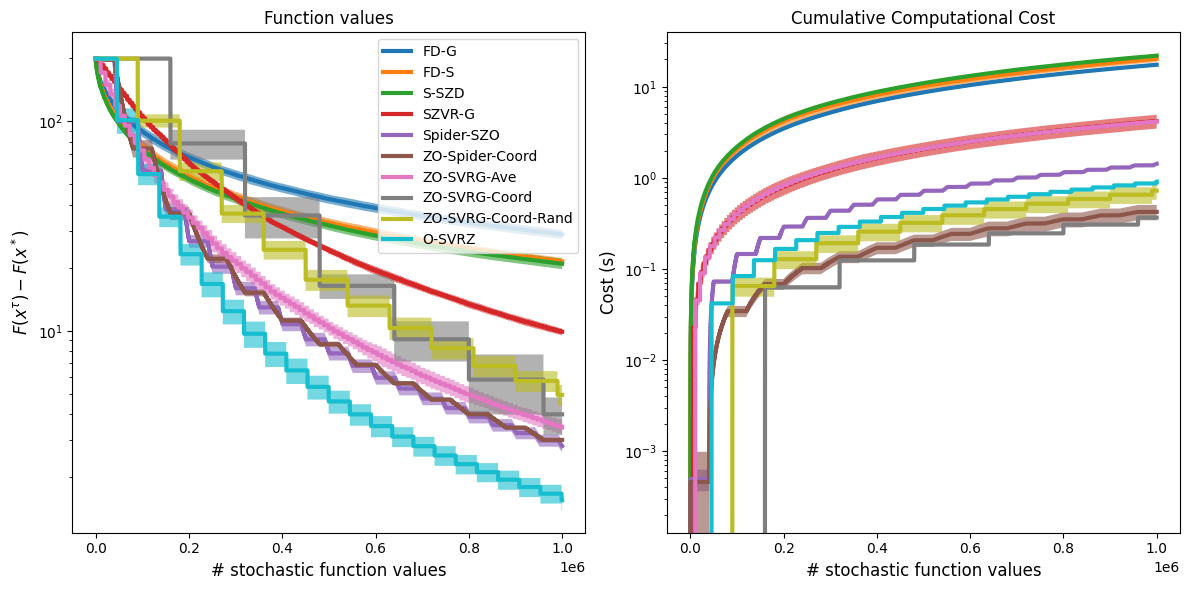
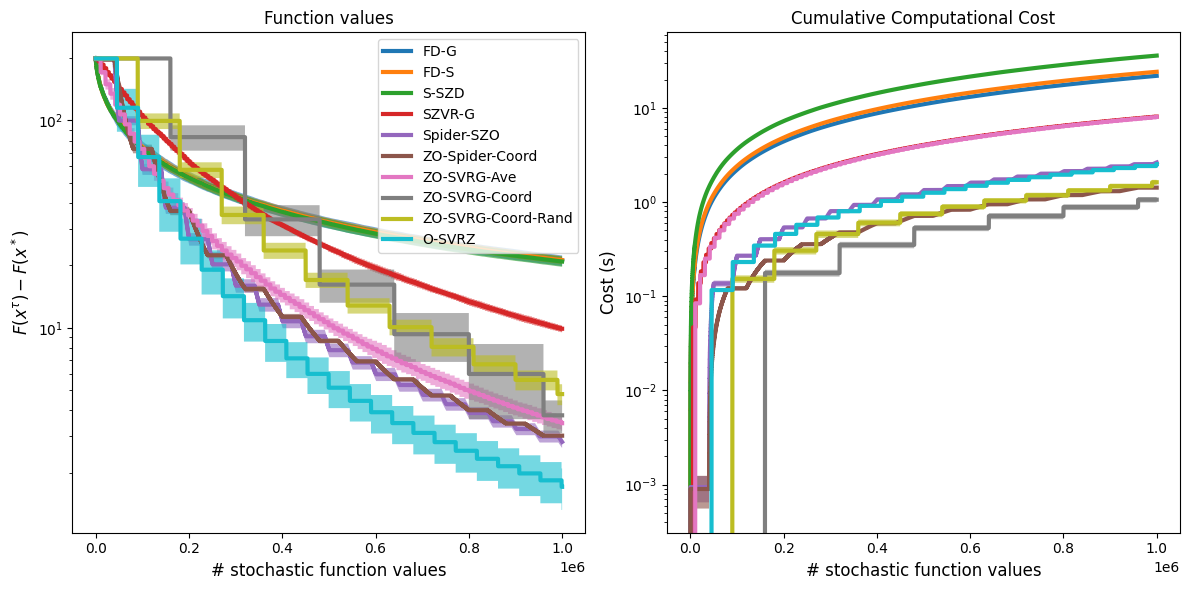
Added changing_params.py experiment and updated least squares comparison

diff --git a/experiments/synthetic/changing_params.py b/experiments/synthetic/changing_params.py
@@ -1,0 +1,122 @@
+import os
+import sys
+import torch
+import numpy as np
+
+
+from svrz import ZOSVRG, SZVR_G, ZOSVRG_CoordRand, SpiderSZO, ZOSpiderCoord, OSVRZ
+from svrz.directions import QRDirections, SphericalDirections, GaussianDirections
+
+from itertools import product
+
+sys.path.append("../")
+
+from datasets import SyntheticDataset
+from targets import LeastSquares
+from concurrent.futures import ProcessPoolExecutor as PPE
+
+
+dtype = torch.float64
+device = 'cpu'
+d = 50
+seed = 12131415
+
+
+x_star = torch.Tensor([0 for i in range(d)], device=device).to(dtype)
+dataset = SyntheticDataset(x_star=x_star, n = d, seed=seed)
+generator = torch.Generator()
+
+
+x0 = torch.ones((1, d), dtype=dtype, device=device)
+
+target = LeastSquares(data=dataset, seed = seed)
+
+budget = 1000000
+out_path = "./results/changing_params"
+
+os.makedirs(out_path, exist_ok=True)
+
+def test_optimizer(name, optimizer, x0, T, m, gamma, h, cost_per_iter = None, reps = 10):
+    values, times = [], []
+    for _ in range(reps):
+        if m is None:
+            result = optimizer.optimize(target, x0 = x0, T = T, gamma = gamma, h = h)
+        else:
+            result = optimizer.optimize(target, x0 = x0, T = T, m = m, gamma = gamma, h = h)
+        values.append(result['f_values'])
+        times.append(result['it_times'])
+    print("-"*44)
+    values = np.array(values).reshape(reps, -1)
+    times = np.array(times).reshape(reps, -1).cumsum(1)
+    ris = {
+        'values' : (values.mean(0), values.std(0)),
+        'times' : (times.mean(0), times.std(0))
+    }
+    if cost_per_iter is None:
+        cost_per_iter = result['l_values']
+            
+    with open(f"{out_path}/{name}.log", 'w') as f:
+        for i in range(len(ris['values'][0])):
+            cost = cost_per_iter[i] if isinstance(cost_per_iter, list) else cost_per_iter
+            f.write(f"{ris['values'][0][i]},{ris['values'][1][i]},{ris['times'][0][i]},{ris['times'][1][i]},{cost}\n")                
+
+    return None 
+
+
+def get_optimizer(name, d, l, m, seed, device, dtype):
+    if name == 'osvrz':
+        return OSVRZ(P = QRDirections(d = d, l = l, seed = seed, device = device, dtype = dtype), batch_size=1, seed=seed), 2 * (l + 1)  * m + d * (d + 1) 
+    elif name == 'szvr_g':
+        return SZVR_G(d= d, l = l, dtype=dtype, device=device, seed=seed),  4 * m + d * (l + 1)
+    elif name == 'zo_svrg_ave':
+        return ZOSVRG(d = d, l=l, dtype=dtype, device=device, estimator='ave', batch_size=1, seed=seed), 2 * (l + 1) * m + d * (l + 1)
+    elif name == 'zo_svrg_coord':
+        return ZOSVRG(d = d, l=l, dtype=dtype, device=device, estimator='coord', batch_size=1, seed=seed), 4 * d * m + 2 * d * d
+    elif name == 'zo_svrg_coord_rand':
+        return ZOSVRG_CoordRand(d = d, l=l, dtype=dtype, device=device, seed=seed), 4 * l  * m + 2 * d * d 
+    elif name == 'spider_szo':
+        return SpiderSZO(d=d, l=l, dtype=dtype, device=device, seed=seed), None
+    elif name == 'zo_spider_coord':
+        return ZOSpiderCoord(d=d, batch_size=1, dtype=dtype, device=device, seed=seed), None
+
+
+h = lambda k : 1e-7#max(1e-5 / sqrt(k + 1), 1e-9)
+reps = 10
+
+#m = 50
+num_directions = [1] + [i for i in range(5, d + 5, 5)]
+gammas = [1e-5, 1e-4, 1e-3, 1e-2, 1e-1, 1.0]
+inner_iters = [5, 15, 25, 50]
+opt_names = ['osvrz','szvr_g','zo_svrg_ave','zo_svrg_coord','zo_svrg_coord_rand','spider_szo', 'zo_spider_coord']
+
+
+def execute_exp(param):
+    name, l, gamma, m = param
+    optimizer, cost_per_iter = get_optimizer(name, d, l, m, seed=seed, device=device, dtype=dtype)
+    T = budget // cost_per_iter if cost_per_iter is not None else None
+    print(f"[--] Executing {name}_{l}_{gamma}_{m}")
+    opt_result = test_optimizer(f"{name}_{l}_{gamma}_{m}", optimizer, x0, T, m, gamma, h, cost_per_iter, reps = reps)
+#    with open(f"{out_path}/test_{name}_{l}_{gamma}_{m}.log", 'w') as f:
+#        f.write("TEST\n")
+    return f"{name}_{d}_{l}_{gamma}_{m}"
+
+max_workers = 12
+num_completed = 0
+
+
+with PPE(max_workers=max_workers) as executor:
+    for result in executor.map(execute_exp, product(opt_names, num_directions, gammas, inner_iters) ):
+        print(f"[--] Completed {result}")
+        num_completed += 1
+        
+print(f"[++] Completed {num_completed} tasks!")
+    
+# for (name, l, gamma, m) in product(opt_names, num_directions, gammas, inner_iters):
+
+#     optimizer, cost_per_iter = get_optimizer(name, d, l, seed=seed, device=device, dtype=dtype)
+#     T = budget // cost_per_iter if cost_per_iter is not None else None
+#     print(f"[--] Executing {name}_{l}_{gamma}_{m}")
+#     with open(f"{out_path}/test_{name}_{l}_{gamma}_{m}.log", 'w') as f:
+#         f.write("TEST\n")
+#    opt_result = test_optimizer(f"{name}_{l}_{gamma}_{m}", optimizer, x0, T, m, gamma, h, cost_per_iter, reps = reps)
+

diff --git a/experiments/synthetic/least_squares.py b/experiments/synthetic/least_squares.py
@@ -1,4 +1,5 @@
 import os
+import sys
 import torch
 import numpy as np
 from math import sqrt
@@ -7,7 +8,10 @@ from math import sqrt
 from svrz import SSZD, ZOSVRG, SZVR_G, ZOSVRG_CoordRand, SpiderSZO, ZOSpiderCoord, OSVRZ
 from svrz.directions import QRDirections, SphericalDirections, GaussianDirections
 
-from experiments.datasets import SyntheticDataset
+
+sys.path.append("../")
+
+from datasets import SyntheticDataset
 from targets import LeastSquares
 
 
@@ -29,7 +33,7 @@ x0 = torch.ones((1, d), dtype=dtype, device=device)
 target = LeastSquares(data=dataset, seed = seed)
 
 sszd_opt     = SSZD(P = QRDirections(d=d, l = l, seed = seed, device=device, dtype=dtype), nrm_const=d / l, seed=seed)
-gauss_opt     = SSZD(P = GaussianDirections(d=d, l = l, seed = seed, device=device, dtype=dtype), nrm_const=1.0, seed=seed)
+gauss_opt     = SSZD(P = GaussianDirections(d=d, l = l, seed = seed, device=device, dtype=dtype), nrm_const=1 /l, seed=seed)
 sph_opt     = SSZD(P = SphericalDirections(d=d, l = l, seed = seed, device=device, dtype=dtype), nrm_const= d / l, seed=seed)
 
 zosvrg_ave   = ZOSVRG(d = d, l = l, dtype = dtype, device = device, seed=seed, estimator='ave')
@@ -74,7 +78,6 @@ def test_optimizer(name, optimizer, x0, T, m, gamma, h, cost_per_iter = None, re
 
 
 gamma = lambda k : 0.01 * (l/d) * (1/sqrt(k + 1))
-gamma_gauss = lambda k : 0.0003 * (l/d) * (1/sqrt(k + 1))
 
 h = lambda k : 1e-7#max(1e-5 / sqrt(k + 1), 1e-9)
 reps = 10
@@ -83,42 +86,42 @@ m = 100
 
 
 
-# cost_per_iter = (4 * m + d * (l + 1))
-# T = budget // cost_per_iter
-# szvr_g_result = test_optimizer("szvr_g", szvr_g, x0, T, m,   0.00005,   h, cost_per_iter, reps = reps)
+cost_per_iter = (4 * m + d * (l + 1))
+T = budget // cost_per_iter
+szvr_g_result = test_optimizer("szvr_g", szvr_g, x0, T, m,   0.00005,   h, cost_per_iter, reps = reps)
 
-# cost_per_iter = (2 * (l + 1) * m + d * (l + 1))
-# T = budget // cost_per_iter
-# zosvrg_ave_result = test_optimizer("zosvrg_ave",zosvrg_ave, x0, T, m,   0.0002,   h, cost_per_iter, reps = reps)
-
-
-# cost_per_iter = (4 * d * m + 2 * d * d)
-# T = budget // cost_per_iter
-# zosvrg_coo_result = test_optimizer("zosvrg_coord", zosvrg_coord, x0, T, m, 0.003, h, cost_per_iter, reps = reps)
+cost_per_iter = (2 * (l + 1) * m + d * (l + 1))
+T = budget // cost_per_iter
+zosvrg_ave_result = test_optimizer("zosvrg_ave",zosvrg_ave, x0, T, m,   0.0002,   h, cost_per_iter, reps = reps)
 
 
-# cost_per_iter = (4 * l  * m + 2 * d * d )
-# T = budget // cost_per_iter
-# zosvrg_coord_rand_result = test_optimizer("zosvrg_coord_rand", zosvrg_coord_rand, x0, T, m, 0.0015, h, cost_per_iter, reps = reps)
+cost_per_iter = (4 * d * m + 2 * d * d)
+T = budget // cost_per_iter
+zosvrg_coo_result = test_optimizer("zosvrg_coord", zosvrg_coord, x0, T, m, 0.003, h, cost_per_iter, reps = reps)
 
-# T  = budget 
-# spider_szo_result = test_optimizer("spider_szo", spider_szo, x0, T, m, 0.001, h, None, reps = reps)
 
-# T  = budget 
-# zo_spider_coord_result = test_optimizer("zo_spider_coord", zo_spider_coord, x0, T, m, 0.0015, h, None, reps = reps)
+cost_per_iter = (4 * l  * m + 2 * d * d )
+T = budget // cost_per_iter
+zosvrg_coord_rand_result = test_optimizer("zosvrg_coord_rand", zosvrg_coord_rand, x0, T, m, 0.0015, h, cost_per_iter, reps = reps)
 
-# cost_per_iter = (2 * (l + 1)  * m + d * (d + 1) )
-# T = budget // cost_per_iter
-# osvrz_result = test_optimizer("osvrz", osvrz, x0, T, m, 0.0015, h, cost_per_iter, reps = reps)
+T  = budget 
+spider_szo_result = test_optimizer("spider_szo", spider_szo, x0, T, m, 0.001, h, None, reps = reps)
 
-# cost_per_iter = (l + 1)
-# T = budget // cost_per_iter
-# sszd_result = test_optimizer("sszd", sszd_opt, x0, T, None, gamma, h, cost_per_iter, reps = reps)
+T  = budget 
+zo_spider_coord_result = test_optimizer("zo_spider_coord", zo_spider_coord, x0, T, m, 0.0015, h, None, reps = reps)
+
+cost_per_iter = (2 * (l + 1)  * m + d * (d + 1) )
+T = budget // cost_per_iter
+osvrz_result = test_optimizer("osvrz", osvrz, x0, T, m, 0.0015, h, cost_per_iter, reps = reps)
 
 cost_per_iter = (l + 1)
 T = budget // cost_per_iter
-gauss_result = test_optimizer("gauss_opt", gauss_opt, x0, T, None, gamma_gauss, h, cost_per_iter, reps = reps)
+sszd_result = test_optimizer("sszd", sszd_opt, x0, T, None, gamma, h, cost_per_iter, reps = reps)
 
-# cost_per_iter = (l + 1)
-# T = budget // cost_per_iter
-# sph_result = test_optimizer("sph_opt", sph_opt, x0, T, None, gamma, h, cost_per_iter, reps = reps)
+cost_per_iter = (l + 1)
+T = budget // cost_per_iter
+gauss_result = test_optimizer("gauss_opt", gauss_opt, x0, T, None, gamma, h, cost_per_iter, reps = reps)
+
+cost_per_iter = (l + 1)
+T = budget // cost_per_iter
+sph_result = test_optimizer("sph_opt", sph_opt, x0, T, None, gamma, h, cost_per_iter, reps = reps)
